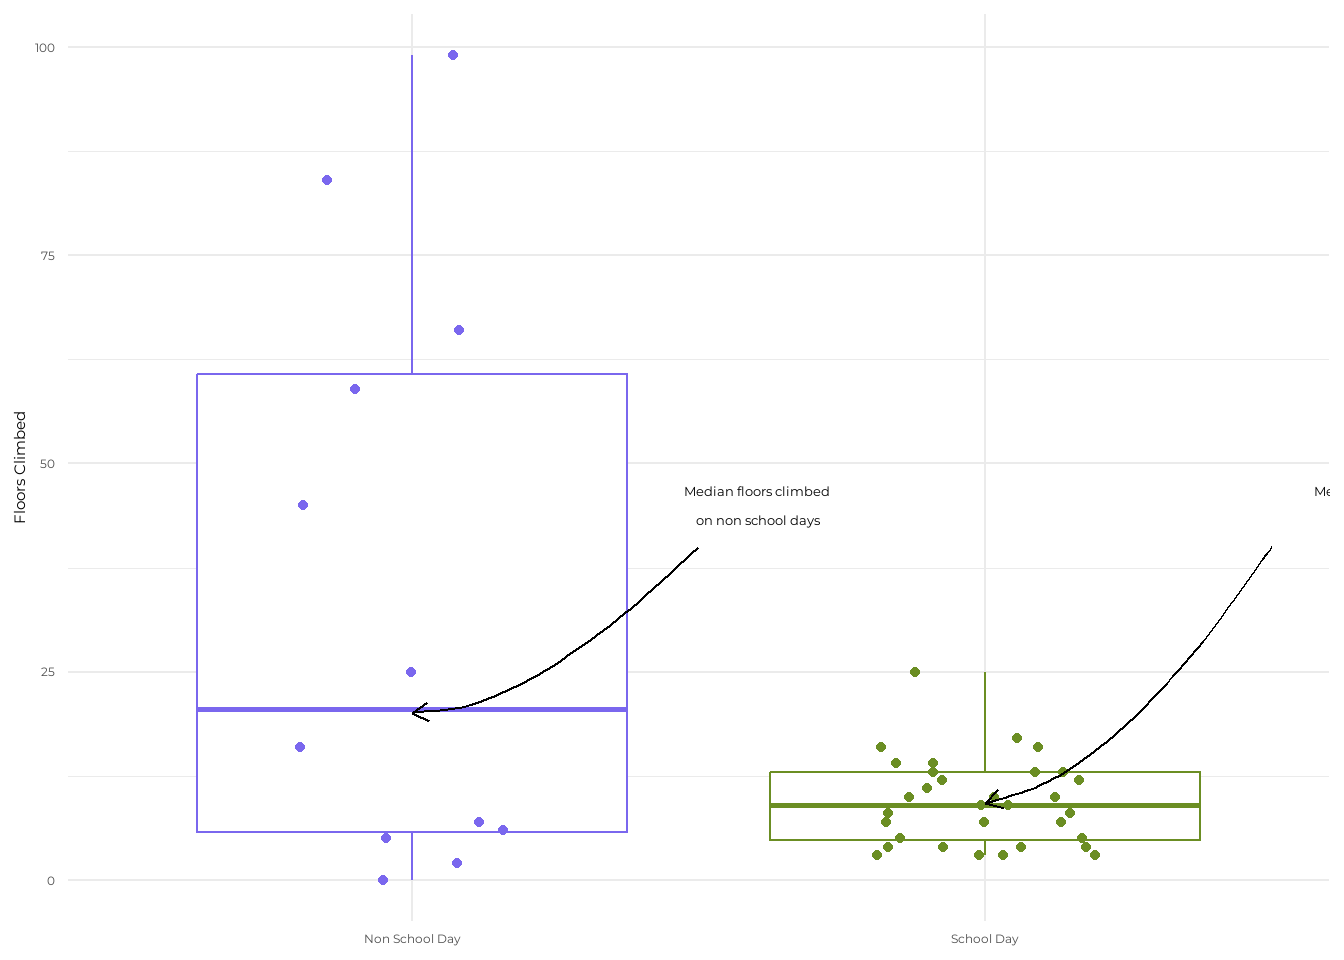
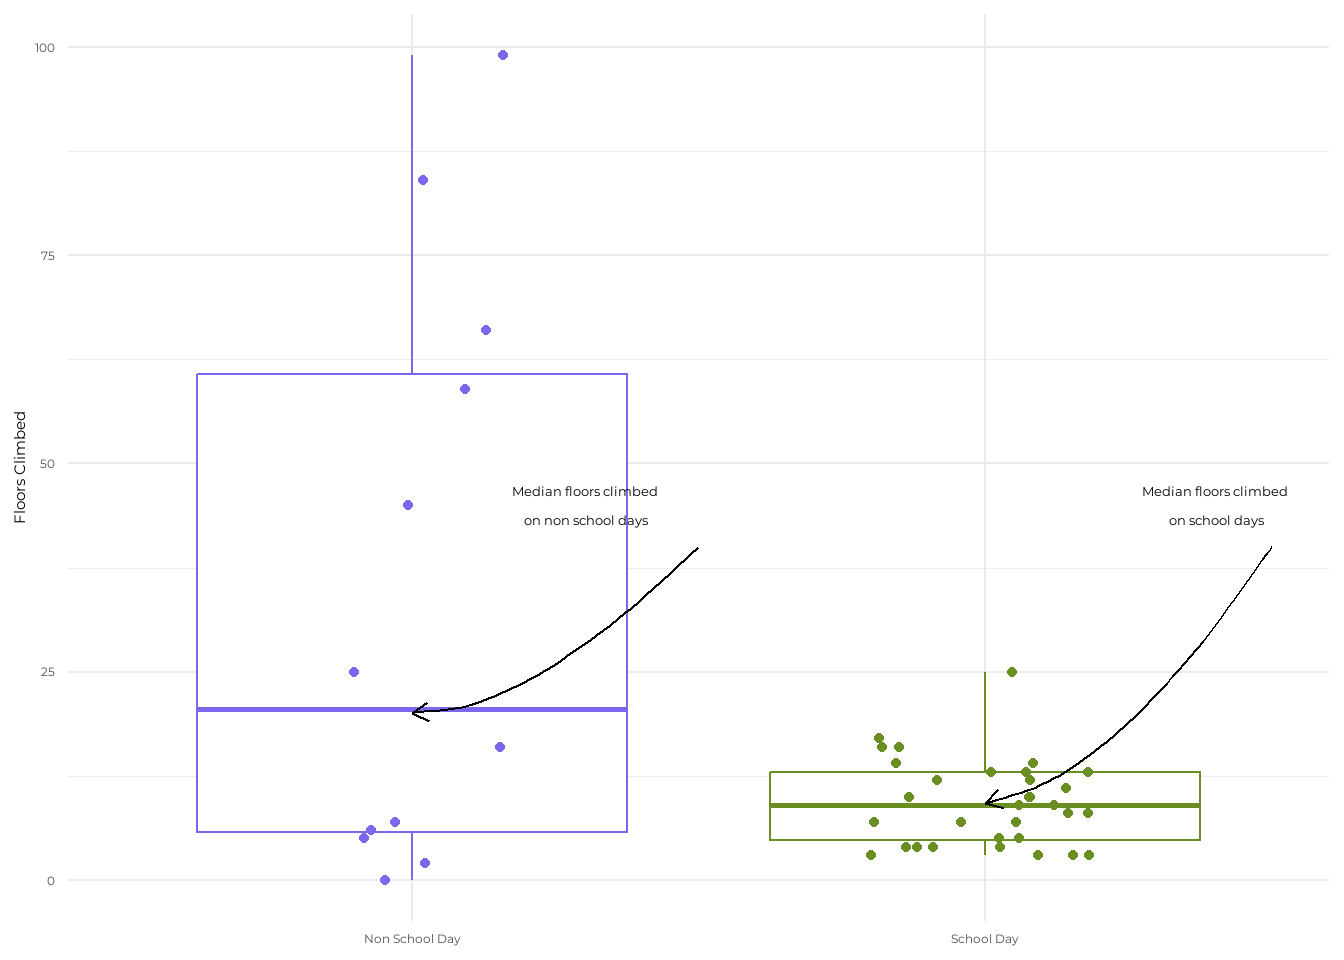
Updating annotations again

diff --git a/advanceddatavisualization.html b/advanceddatavisualization.html
@@ -175,7 +175,7 @@ pre > code.sourceCode > span > a:first-child::before { text-decoration: underlin
 <span id="cb3-18"><a href="#cb3-18" aria-hidden="true" tabindex="-1"></a>             <span class="at">color =</span><span class="st">'black'</span>) <span class="sc">+</span> <span class="co"># color of arrow 1</span></span>
 <span id="cb3-19"><a href="#cb3-19" aria-hidden="true" tabindex="-1"></a>  <span class="fu">draw_label</span>(<span class="st">"Median floors climbed </span><span class="sc">\n</span><span class="st"> on non school days"</span>, <span class="co"># setting label 1</span></span>
 <span id="cb3-20"><a href="#cb3-20" aria-hidden="true" tabindex="-1"></a>             <span class="at">fontfamily =</span> <span class="st">"montserrat"</span>, <span class="co"># choosing font for label 1</span></span>
-<span id="cb3-21"><a href="#cb3-21" aria-hidden="true" tabindex="-1"></a>             <span class="at">x =</span>  <span class="fl">1.6</span>, <span class="co"># x axis location of label 1</span></span>
+<span id="cb3-21"><a href="#cb3-21" aria-hidden="true" tabindex="-1"></a>             <span class="at">x =</span>  <span class="fl">1.3</span>, <span class="co"># x axis location of label 1</span></span>
 <span id="cb3-22"><a href="#cb3-22" aria-hidden="true" tabindex="-1"></a>             <span class="at">y =</span>  <span class="dv">45</span>, <span class="co"># y axis location of label 1</span></span>
 <span id="cb3-23"><a href="#cb3-23" aria-hidden="true" tabindex="-1"></a>             <span class="at">size =</span> <span class="dv">10</span>, <span class="co"># font size of label 1</span></span>
 <span id="cb3-24"><a href="#cb3-24" aria-hidden="true" tabindex="-1"></a>             <span class="at">color =</span> <span class="st">"black"</span>) <span class="sc">+</span> <span class="co"># color of label 1</span></span>
@@ -186,7 +186,7 @@ pre > code.sourceCode > span > a:first-child::before { text-decoration: underlin
 <span id="cb3-29"><a href="#cb3-29" aria-hidden="true" tabindex="-1"></a>             <span class="at">color =</span><span class="st">'black'</span>) <span class="sc">+</span> <span class="co"># color of arrow 2</span></span>
 <span id="cb3-30"><a href="#cb3-30" aria-hidden="true" tabindex="-1"></a>  <span class="fu">draw_label</span>(<span class="st">"Median floors climbed </span><span class="sc">\n</span><span class="st"> on school days"</span>, <span class="co"># setting label 2</span></span>
 <span id="cb3-31"><a href="#cb3-31" aria-hidden="true" tabindex="-1"></a>             <span class="at">fontfamily =</span> <span class="st">"montserrat"</span>, <span class="co"># choosing font for label 2</span></span>
-<span id="cb3-32"><a href="#cb3-32" aria-hidden="true" tabindex="-1"></a>             <span class="at">x =</span>  <span class="fl">2.7</span>, <span class="co"># x axis location of label 2</span></span>
+<span id="cb3-32"><a href="#cb3-32" aria-hidden="true" tabindex="-1"></a>             <span class="at">x =</span>  <span class="fl">2.4</span>, <span class="co"># x axis location of label 2</span></span>
 <span id="cb3-33"><a href="#cb3-33" aria-hidden="true" tabindex="-1"></a>             <span class="at">y =</span>  <span class="dv">45</span>, <span class="co"># y axis location of label 2</span></span>
 <span id="cb3-34"><a href="#cb3-34" aria-hidden="true" tabindex="-1"></a>             <span class="at">size =</span> <span class="dv">10</span>, <span class="co"># font size of label 2</span></span>
 <span id="cb3-35"><a href="#cb3-35" aria-hidden="true" tabindex="-1"></a>             <span class="at">color =</span> <span class="st">"black"</span>) <span class="sc">+</span> <span class="co"># color of label 2</span></span>
@@ -306,7 +306,7 @@ pre > code.sourceCode > span > a:first-child::before { text-decoration: underlin
 <span id="cb5-49"><a href="#cb5-49" aria-hidden="true" tabindex="-1"></a>             <span class="at">color =</span><span class="st">'black'</span>) <span class="sc">+</span> <span class="co"># color of arrow</span></span>
 <span id="cb5-50"><a href="#cb5-50" aria-hidden="true" tabindex="-1"></a>  <span class="fu">draw_label</span>(<span class="st">"Despite only accounting for 2 days out of the </span><span class="sc">\n</span><span class="st"> week, the cumulative floors climbed on </span><span class="sc">\n</span><span class="st"> non school days is much higher than on school days"</span>, <span class="co"># choosing label</span></span>
 <span id="cb5-51"><a href="#cb5-51" aria-hidden="true" tabindex="-1"></a>             <span class="at">fontfamily =</span> <span class="st">"montserrat"</span>, <span class="co"># choosing font for label</span></span>
-<span id="cb5-52"><a href="#cb5-52" aria-hidden="true" tabindex="-1"></a>             <span class="at">x =</span> <span class="fu">as.Date</span>(<span class="st">"2025-10-05"</span>), <span class="co"># x axis location for label</span></span>
+<span id="cb5-52"><a href="#cb5-52" aria-hidden="true" tabindex="-1"></a>             <span class="at">x =</span> <span class="fu">as.Date</span>(<span class="st">"2025-05-10"</span>), <span class="co"># x axis location for label</span></span>
 <span id="cb5-53"><a href="#cb5-53" aria-hidden="true" tabindex="-1"></a>             <span class="at">y =</span>  <span class="dv">600</span>, <span class="co"># y axis location for label</span></span>
 <span id="cb5-54"><a href="#cb5-54" aria-hidden="true" tabindex="-1"></a>             <span class="at">size =</span> <span class="dv">10</span>, <span class="co"># font size for label</span></span>
 <span id="cb5-55"><a href="#cb5-55" aria-hidden="true" tabindex="-1"></a>             <span class="at">color =</span> <span class="st">"black"</span>) <span class="sc">+</span> <span class="co"># font color for label</span></span>
